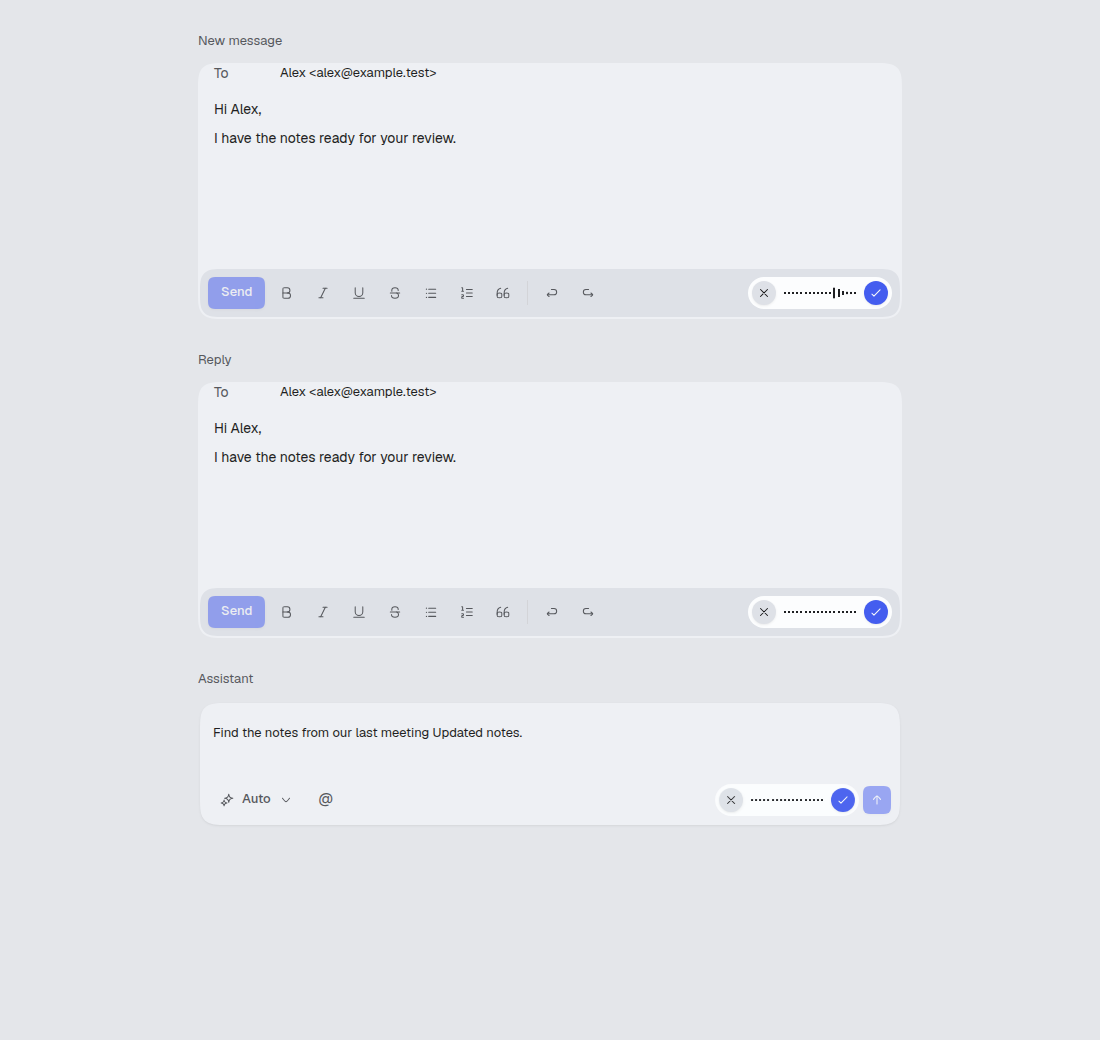
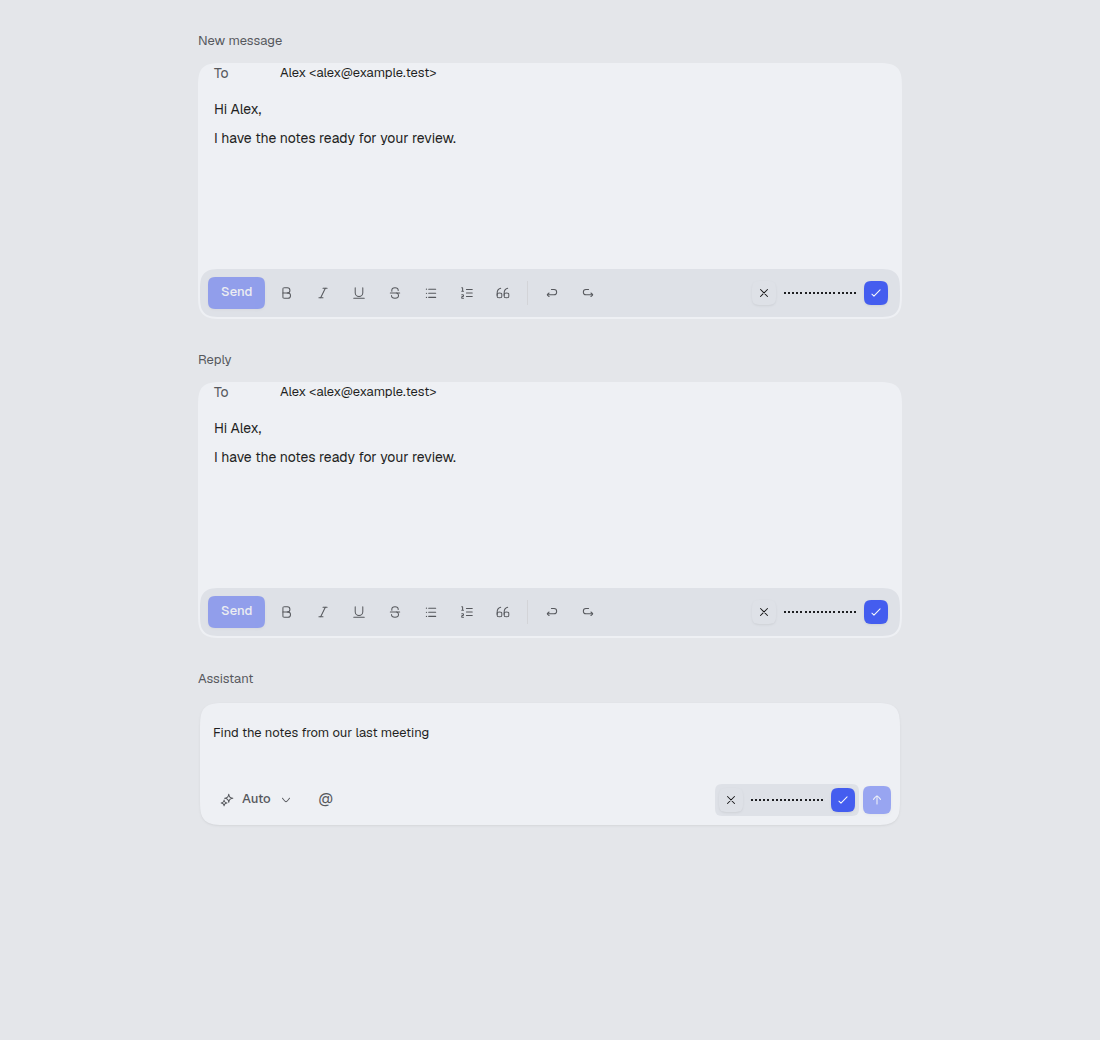
fix(ui): align dictation colors and corners with shared controls

diff --git a/packages/ui/src/components/ui/composer-chrome.tsx b/packages/ui/src/components/ui/composer-chrome.tsx
@@ -295,14 +295,13 @@ export const ComposerDictationControl = ({
 }) => (
   <div
     className={cn(
-      "inline-flex h-8 w-36 shrink-0 items-center gap-2 rounded-full bg-panel p-1 not-squircle",
+      "inline-flex h-8 w-36 shrink-0 items-center gap-2 rounded-md bg-detail p-1 squircle",
       entranceMotionVariants({ effect: "pop" })
     )}
   >
     <IconButtonTooltip label="Cancel dictation">
       <Button
         aria-label="Cancel dictation"
-        chrome="round"
         disabled={disabled}
         onClick={onCancel}
         size="icon-xs"
@@ -317,7 +316,6 @@ export const ComposerDictationControl = ({
         <IconButtonTooltip label="Finish dictation">
           <Button
             aria-label="Finish dictation"
-            chrome="round"
             disabled={disabled}
             onClick={onFinish}
             size="icon-xs"

diff --git a/packages/ui/src/components/ui/button.tsx b/packages/ui/src/components/ui/button.tsx
@@ -75,7 +75,6 @@ export const buttonVariants = cva(
       auxiliaryPress: { false: null, true: null },
       chrome: {
         default: null,
-        round: "rounded-full not-squircle",
         toolbar: null,
       },
       focusRing: {
